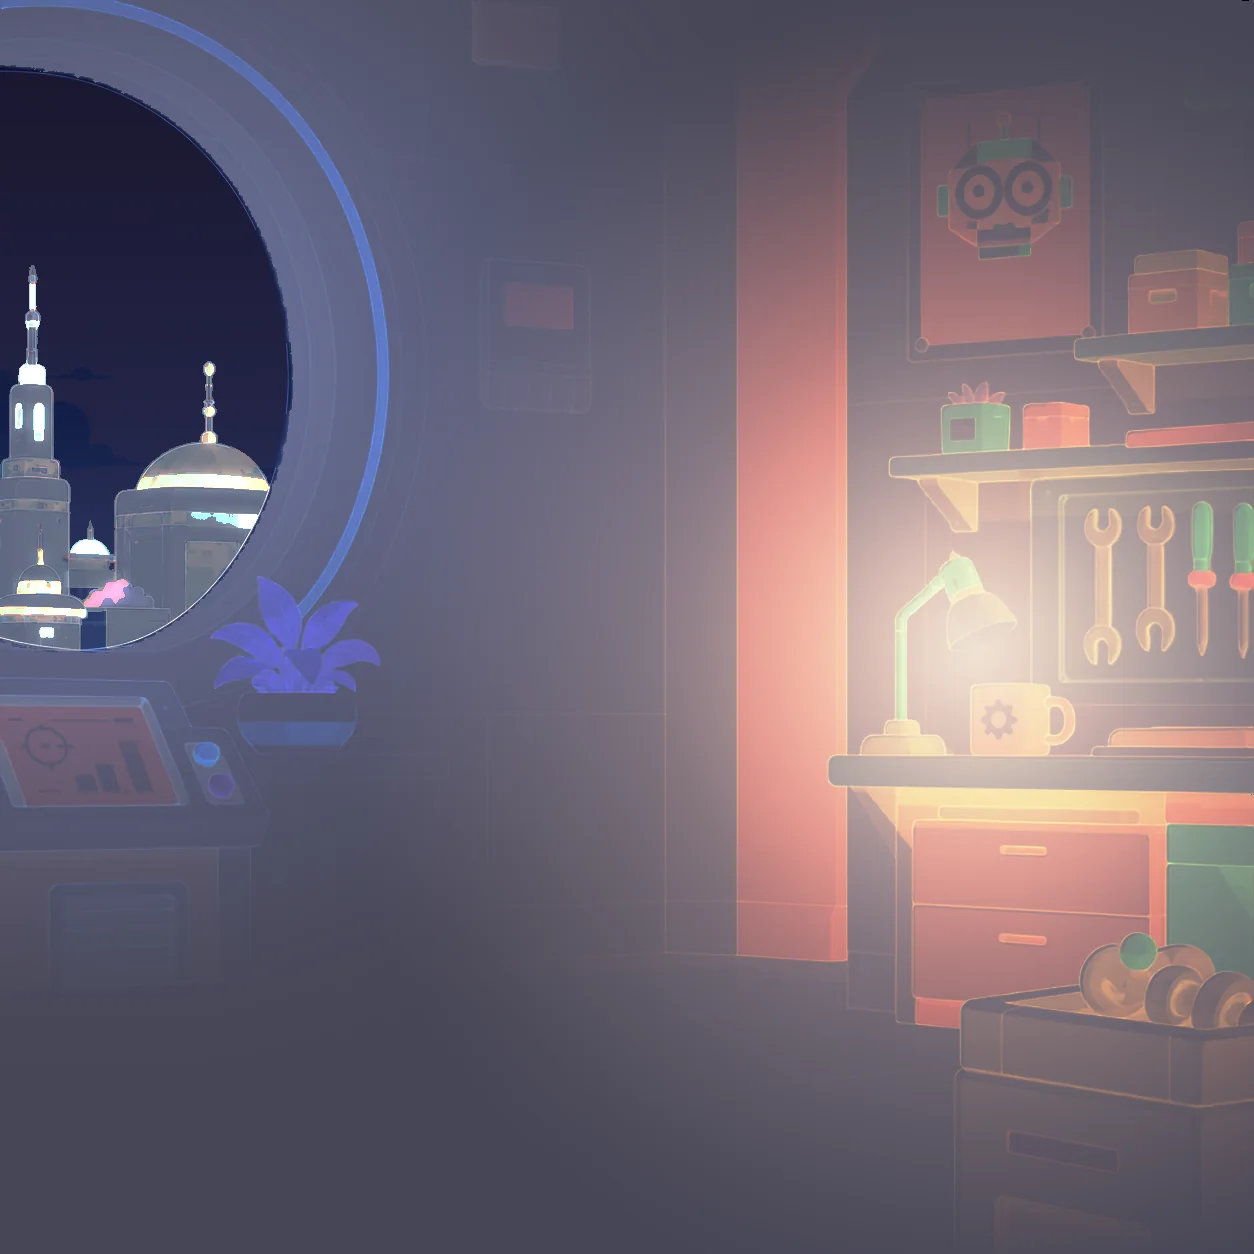
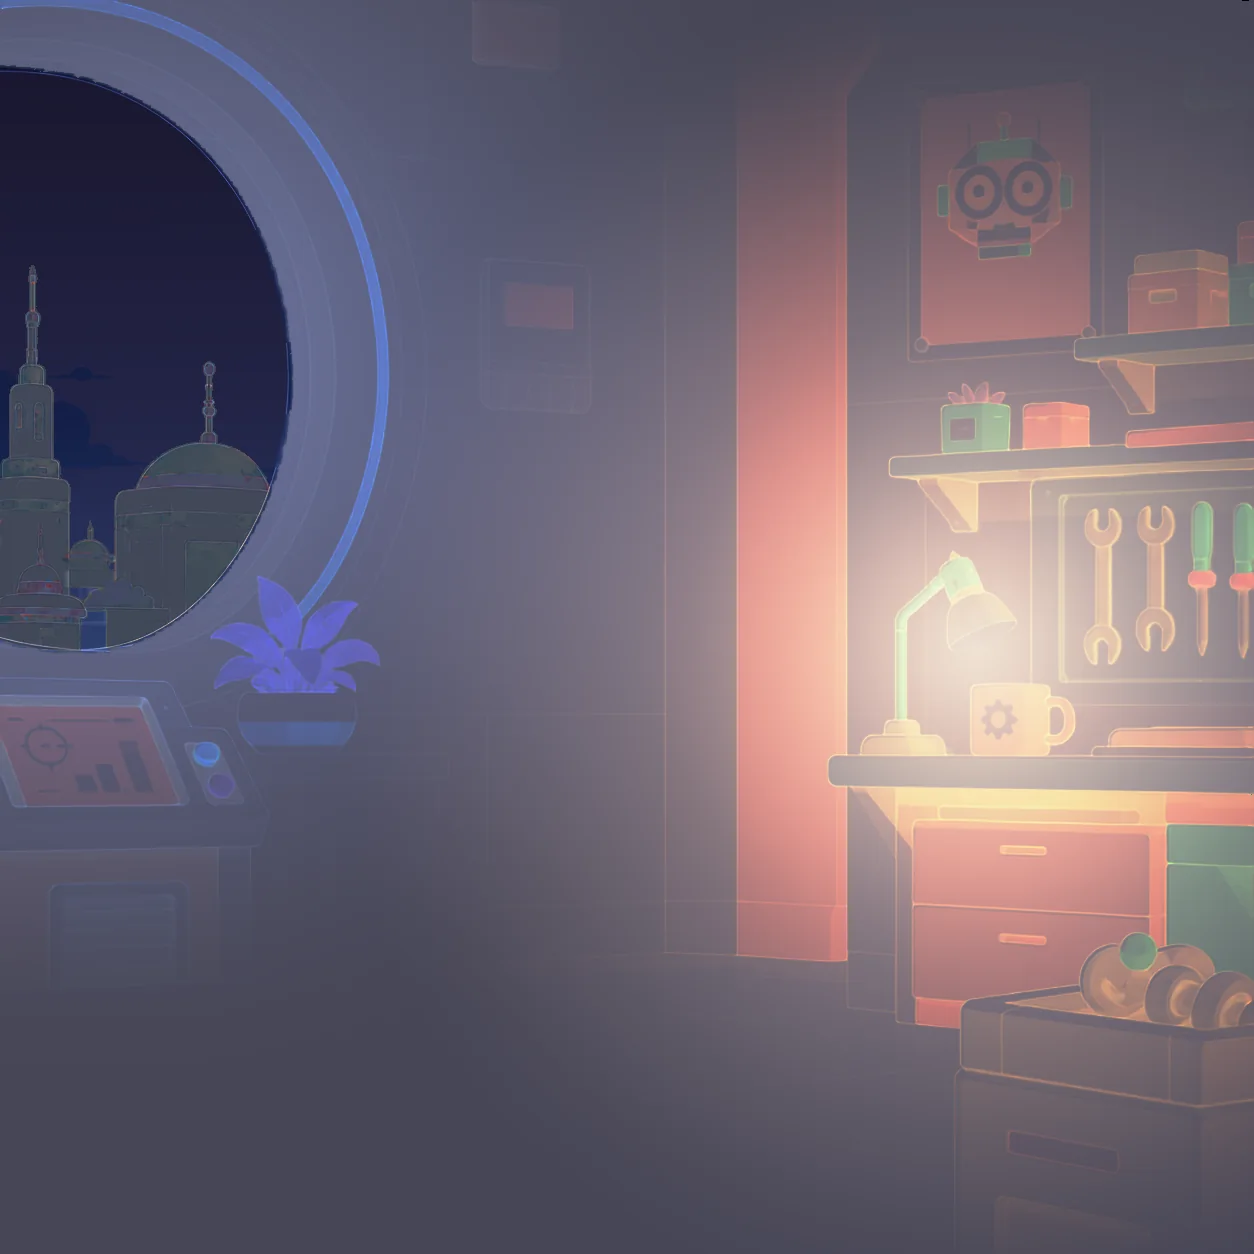
夜景改成「暗的建築 + 窗內有光」,加上星星、月亮與月光;右下角的切換點收起來
一、建築不再是霓虹
整片點成螢光色很醜,而且那是把顏色蓋上去不是打光。neon 全部關掉(amt 0、bloom 0),
建築壓成剪影(明度 14–72,天空是 14–47,塔身還浮得起來)。窗格的光改成獨立的三張
貼圖(1.4–1.8KB),用窗格自己的像素在網頁端 screen 疊亮,而且三組各閃各的 ——
整座城市一起明滅會像在呼吸,不像有人在裡面。偶爾有一格會熄一下又亮起來。
夜晚的 screen 分級圖因此從 6KB 掉到 108 bytes。

二、星星、月亮、月光
夜空有 34 顆星在閃,月亮從天際線後面慢慢升上來(一輪 260 秒),升得越高灑進房間的
冷月光越多。這是全檔唯一「原稿裡沒有、自己畫」的東西 —— 原稿只畫了白天,夜空是空的。

踩到一個坑值得記:一開始把它們畫在幾何層,結果完全看不見 —— 幾何層在天色分級之下,
白色的月亮會被夜晚的 multiply 壓成夜空色(× 0.14)。搬到發光層(screen、在分級之上)
才對。兩者都套同一個天空遮罩,所以窗框與每一棟建築都會確實擋住。

星星的半徑是換算回卡片尺寸訂的:1254 縮到約 392px,半徑 1.5 的星在卡片上只有 0.5px,
等於看不見;現在是 3.4–6.2。位置用固定的亂數種子生,每次重新整理都一樣。

三、右下角的四顆切換點收起來
卡片只演第一幕(Allen 在他的工作間)。其他三幕的程式還在(?allenact=2..4 可以叫出來
驗收),只是不給入口 —— 團隊卡上多一組控制項會把注意力從角色身上帶走。

驗收:7 個頁面/視窗組合 overflowX = 0、零錯誤、零失敗請求;四個時段都看過。

Changed region(s): [[0.0, 0.2177, 0.2177, 0.5287]]

diff --git a/allen-room.js b/allen-room.js
@@ -34,7 +34,7 @@
 // 不依賴它。
 
 import { FrameStep } from './puppet-kit.js';
-import { PART_BOX, SKY_MASK, GRADE_TIMES, GRADE_OFF } from './allen-room-parts.js';
+import { PART_BOX, SKY_MASK, GRADE_TIMES, GRADE_OFF, CITY_LIGHTS } from './allen-room-parts.js';
 import { GRADE_BASE, TIMES, pickTime } from './allen-sky.js';
 
 const clamp = (v, a, b) => (v < a ? a : v > b ? b : v);
@@ -97,6 +97,22 @@ const CLOUDS = [
 /** 唯一「畫在會動的層前面」的不動層:右上那排層架蓋到海報一角。海報會抖,所以它
  *  不能烤進底板 —— 底板在會動的層後面,層架會被海報蓋掉。 */
 const FRONT = 'front_shelf';
+
+/** 夜裡窗外城市的窗格會亮起來。**不是霓虹** —— 建築在分級圖裡已經被壓成剪影,
+ *  這一層才是「窗戶裡面有光」:貼的是原稿畫的那面藍窗自己的像素,screen 疊上去。
+ *  分三組各閃各的,整座城市一起明滅會像在呼吸,不像有人在裡面。
+ *  只有夜裡出場(乘上夜晚的權重)。 */
+const CITY = CITY_LIGHTS.map((id, i) => ({ id, per: 6.5 + i * 2.9, ph: i * 2.1 }));
+
+/** 夜空:星星與月亮。
+ *
+ *  這是全檔唯一「原稿裡沒有、我們自己畫」的東西 —— 因為原稿只畫了白天,夜空是空的。
+ *  兩個都畫在天空的遮罩裡,所以窗框與每一棟建築都會確實擋住它們;而且只有夜裡出場
+ *  (乘上夜晚的權重),白天與黃昏完全不存在。
+ *
+ *  星星的位置用固定的亂數種子生,每次重新整理都一樣 —— 星空不該每次都換一張。 */
+const STARS = 34;
+const MOON = { r: 26, x: 196, lo: 585, hi: 96, per: 260 };   // 從天際線後面慢慢升上來
 
 /** 房間裡「只會亮、不會動」的地方:牆上小螢幕、頂上藍螢幕、地上機台的燈條。
  *  它們不用另外切成零件 —— 直接把底板自己的像素在這幾塊矩形上疊亮就好,
@@ -167,7 +183,8 @@ export function createRoom(root, {
   back.innerHTML = `
 <image href="${BASE}stage.webp" x="0" y="0" width="${CANVAS}" height="${CANVAS}"/>
 <defs><mask id="sky${uid}" maskUnits="userSpaceOnUse"><image href="${BASE}sky-mask.webp" x="${SKY_MASK[0]}" y="${SKY_MASK[1]}" width="${SKY_MASK[2]}" height="${SKY_MASK[3]}"/></mask></defs>
-<g mask="url(#sky${uid})">${CLOUDS.map((c) => {
+<g mask="url(#sky${uid})">
+${CLOUDS.map((c) => {
     const b = PART_BOX[c.id];
     if (!b) throw new Error('allen-room-parts.js 少了 ' + c.id);
     return `<g data-r="${c.id}">${img(`${BASE}parts/${c.id}.webp`, b)}</g>`;
@@ -215,8 +232,47 @@ ${LITP.map((p) => `<g data-r="l_${p.id}">${
       ? img(`${BASE}parts/${p.id}.webp`, p.box, ' data-lit="1" opacity="0"')
       : `<g mask="url(#sm${p.id}${uid})">${img(`${BASE}parts/${p.id}.webp`, p.box,
           ' data-lit="1" opacity="0"')}</g>`}</g>`).join('')}
+<!-- 夜空:星星與月亮。放在發光層不是幾何層 —— 幾何層在天色分級之下,
+     白色的月亮會被夜晚的 multiply 壓成夜空色(× 0.14),等於看不見。
+     這一層是 screen 而且在分級之上,月亮才會是月亮。
+     套的是同一個天空遮罩,所以窗框與每一棟建築都會確實擋住它們。 -->
+<g mask="url(#sky${uid})">
+<defs><radialGradient id="moon${uid}">
+  <stop offset="0" stop-color="#F4F7FF"/><stop offset="62%" stop-color="#DCE6FF"/>
+  <stop offset="100%" stop-color="#C3D2F5"/></radialGradient>
+<radialGradient id="halo${uid}">
+  <stop offset="0" stop-color="#CFE0FF" stop-opacity=".55"/>
+  <stop offset="45%" stop-color="#B9CEF5" stop-opacity=".18"/>
+  <stop offset="100%" stop-color="#A8C0EE" stop-opacity="0"/></radialGradient></defs>
+<g data-r="sky-night" opacity="0">
+  <g data-r="moon"><circle data-r="moon-halo" r="${MOON.r * 3.2}" fill="url(#halo${uid})"/>
+  <circle r="${MOON.r}" fill="url(#moon${uid})"/></g>
+  <g data-r="stars">${(() => {
+    // 固定種子的亂數:星空每次重新整理都要一樣
+    let sd = 20260808;
+    const rnd = () => (sd = (sd * 1103515245 + 12345) & 0x7fffffff) / 0x7fffffff;
+    let out = '';
+    for (let i = 0; i < STARS; i++) {
+      const x = r1(SKY_MASK[0] + rnd() * SKY_MASK[2]);
+      const y = r1(SKY_MASK[1] + rnd() * SKY_MASK[3] * 0.72);
+      out += `<circle data-s="${i}" cx="${x}" cy="${y}" r="${r1(3.4 + rnd() * 2.8)}" fill="#EAF2FF"/>`;
+    }
+    return out;
+  })()}</g>
+</g>
+</g>
+${CITY.map((c) => `<g data-r="${c.id}" opacity="0">${img(`${BASE}parts/${c.id}.webp`, PART_BOX[c.id])}</g>`).join('')}
 ${GLOW.map((w) => `<g data-r="${w.id}" mask="url(#sm${w.id}${uid})" opacity="0">`
   + `<image href="${BASE}stage.webp" x="0" y="0" width="${CANVAS}" height="${CANVAS}"/></g>`).join('')}
+
+<!-- 月光從窗口灑進房間。和檯燈的暖光同一種做法(軟邊放射漸層),只是冷的,
+     而且只有夜裡出場;月亮升得越高,灑進來的越多。 -->
+<defs><radialGradient id="moonlit${uid}">
+  <stop offset="0" stop-color="#BBD2FF" stop-opacity=".5"/>
+  <stop offset="55%" stop-color="#9FBCF2" stop-opacity=".18"/>
+  <stop offset="100%" stop-color="#8FAEE8" stop-opacity="0"/>
+</radialGradient></defs>
+<ellipse data-r="moonlit" cx="150" cy="620" rx="430" ry="380" fill="url(#moonlit${uid})" opacity="0"/>
 
 <!-- 檯燈點亮的那一圈暖光。它是光不是物件,所以用軟邊放射漸層;矩形會留一條看得見的直邊。 -->
 <defs><radialGradient id="warm${uid}">
@@ -276,6 +332,13 @@ ${GLOW.map((w) => `<g data-r="${w.id}" mask="url(#sm${w.id}${uid})" opacity="0">
   const dim = q('dim');
   const warm = ql('warm');
   const glowEl = Object.fromEntries(GLOW.map((w) => [w.id, ql(w.id)]));
+  const cityEl = CITY.map((c) => ({ ...c, el: ql(c.id), blink: -1 }));
+  const skyNight = ql('sky-night');
+  const moonG = ql('moon');
+  const starEls = [...lit.querySelectorAll('[data-s]')];
+  const moonlit = ql('moonlit');
+  // 每顆星的閃法都不一樣,不然會像整片一起眨眼
+  const starPh = starEls.map((_, i) => ({ per: 2.1 + (i % 7) * 0.83, ph: (i * 2.399) % 6.283 }));
   // 每朵雲的行程由它自己的貼圖框算:從「整朵在窗戶左外」飄到「整朵出了窗戶右緣」。
   // 寫死一個範圍的話,靠右邊的那朵大半輩子都在畫面外。
   const cloudEl = CLOUDS.map((c) => {
@@ -482,6 +545,38 @@ ${GLOW.map((w) => `<g data-r="${w.id}" mask="url(#sm${w.id}${uid})" opacity="0">
         o = (Math.floor(ledT * 11) % 2 ? 0.06 : 0.62) * Math.exp(-ledT * 1.2);
       }
       glowEl[w.id].setAttribute('opacity', r2(clamp(o, 0, 0.7)));
+    }
+
+    // 夜空:星星閃、月亮慢慢升。月亮升得越高,灑進房間的月光越多。
+    skyNight.setAttribute('opacity', r2(tw.night));
+    if (tw.night > 0.01) {
+      const u = (T % MOON.per) / MOON.per;                 // 一輪 260 秒
+      const my = MOON.lo + (MOON.hi - MOON.lo) * u;
+      moonG.setAttribute('transform', `translate(${MOON.x},${r1(my)})`);
+      for (let i = 0; i < starEls.length; i++) {
+        const p = starPh[i];
+        starEls[i].setAttribute('opacity',
+          r2(0.35 + 0.45 * Math.sin(T * (6.283 / p.per) + p.ph)));
+      }
+      // 月亮還在天際線後面的時候幾乎沒有月光,升上來才慢慢灑進房間
+      const h = clamp((MOON.lo - my) / (MOON.lo - MOON.hi), 0, 1);
+      moonlit.setAttribute('opacity', r2(tw.night * (0.18 + 0.62 * h)));
+    } else {
+      moonlit.setAttribute('opacity', '0');
+    }
+
+    // 窗外城市的窗:各組各自慢慢明滅,偶爾有一格「熄一下又亮起來」——
+    // 那是裡面有人的感覺。白天與黃昏完全不出場。
+    for (const c of cityEl) {
+      let o = 0.52 + 0.26 * Math.sin(T * (6.283 / c.per) + c.ph);
+      if (c.blink >= 0) {
+        c.blink += dt;
+        if (c.blink > 1.1) c.blink = -1;
+        else o *= (Math.floor(c.blink * 7) % 2 ? 0.22 : 1);
+      } else if (rand() < dt * 0.09) {
+        c.blink = 0;
+      }
+      c.el.setAttribute('opacity', r2(clamp(o * tw.night, 0, 1)));
     }
 
     // 檯燈:亮著的時候燈罩自己發亮、桌面有一圈暖光,兩者一起呼吸。

diff --git a/allen-avatar.js b/allen-avatar.js
@@ -74,6 +74,10 @@ export function mountAllenAvatar() {
   let cur = -1, act = null, dead = false;
   const fallbackHtml = stage.innerHTML;   // 靜態機器人:載入失敗時還原
 
+  // 右下角的四顆切換點目前不出場 —— 卡片只演第一幕(Allen 在他的工作間)。
+  // 其他三幕的程式還在(?allenact=2..4 可以叫出來驗收),只是不給入口:
+  // 團隊卡上多一組控制項會把注意力從角色身上帶走。
+  const SHOW_DOTS = false;
   // 切換點(右下四顆):目前幕亮橘。第一幕的背景是亮的,所以整組點加一層深色底,
   // 不然白邊的空心點在白牆上會直接消失。
   const dots = document.createElement('div');
@@ -112,13 +116,18 @@ export function mountAllenAvatar() {
     cur = i;
     paintDots();
     stage.innerHTML = '';
-    stage.appendChild(dots);
+    if (SHOW_DOTS) stage.appendChild(dots);
     import(ACTS[i])
       .then((m) => {
         if (dead || cur !== i) return;
         act = m.createAct(stage, api);
       })
-      .catch(() => { if (!dead && cur === i) { stage.innerHTML = fallbackHtml; stage.appendChild(dots); } });
+      .catch(() => {
+        if (!dead && cur === i) {
+          stage.innerHTML = fallbackHtml;
+          if (SHOW_DOTS) stage.appendChild(dots);
+        }
+      });
   }
   // 開場固定第一幕(Allen 本人);?allenact=1..4 供驗收指定
   let first = 0;

diff --git a/allen-room-parts.js b/allen-room-parts.js
@@ -17,11 +17,17 @@ export const PART_BOX = {
   'cloud_0': [-125, 137, 290, 98],
   'cloud_1': [121, 229, 297, 120],
   'cloud_2': [222, 412, 124, 59],
+  'city_light_0': [17, 359, 243, 171],
+  'city_light_1': [14, 282, 97, 274],
+  'city_light_2': [24, 319, 31, 320],
   'front_shelf': [1070, 216, 184, 203],
 };
 
 // 雲的可見範圍 = 天空那一層減掉城市。窗框與每一棟建築都會確實擋住雲。
 export const SKY_MASK = [0, 63, 295, 592];
+
+// 夜裡會亮起來的城市窗格。分三組各閃各的 —— 整座一起明滅會像在呼吸。
+export const CITY_LIGHTS = ['city_light_0', 'city_light_1', 'city_light_2'];
 
 // 有分級圖的時段。白天就是原圖,所以它不會有 m/s 兩張。
 export const GRADE_TIMES = ['day', 'dusk', 'night'];

diff --git a/tools/gen-allen-room-assets.py b/tools/gen-allen-room-assets.py
@@ -143,11 +143,14 @@ TIMES = {
     'night': {
         'sky': [(40, (11, 18, 46)), (240, (14, 24, 58)), (420, (20, 32, 72)),
                 (560, (30, 46, 92)), (680, (40, 58, 104))],
-        # 明度區間 26–104,天空底部是 47,所以塔身浮得起來,內部還有 40 階的明暗差
-        'city_lo': 26, 'city_hi': 104, 'city_gamma': 1.15,
-        'city_cast': (188, 206, 255), 'city_sat': 0.42,
-        'neon_blue': (96, 214, 238), 'neon_blue_amt': 0.72,
-        'neon_red': (255, 132, 74), 'neon_red_amt': 0.70, 'bloom': 0.22,
+        # 夜裡的城市是「暗的建築 + 窗內有光」,不是霓虹。整片點成螢光色很醜,
+        # 而且那是把顏色蓋上去,不是打光。所以 neon 全部關掉(amt 0、bloom 0),
+        # 建築壓成剪影(明度 14–72,天空是 14–47,塔身還浮得起來),
+        # 窗格的光改成獨立的一張貼圖在網頁端疊亮 + 閃動,見 city_light_*。
+        'city_lo': 14, 'city_hi': 72, 'city_gamma': 1.25,
+        'city_cast': (188, 206, 255), 'city_sat': 0.30,
+        'neon_blue': (96, 214, 238), 'neon_blue_amt': 0.0,
+        'neon_red': (255, 132, 74), 'neon_red_amt': 0.0, 'bloom': 0.0,
         'tint': (0.415, 0.41, 0.50), 'amb': 0.68,
         'spill': (12, 22, 48), 'lamp': 1.45, 'room_off': True,
         # 夜裡檯燈是主光,它打到牆面再散回來的那一份要算進去,不然房間又黑又冷
@@ -557,6 +560,52 @@ def main():
               % (cid, im.width, im.height, boxes[cid][0], boxes[cid][1], sz, m.sum(), full.sum()))
     print('  元件共 %d bytes' % total)
 
+    # ---- 城市窗格的光:夜裡在網頁端疊亮並閃動 ----
+    # 分三組是為了讓它們各閃各的 —— 整座城市一起明滅會像在呼吸,不像有人在裡面。
+    # 貼圖用的是窗格自己的像素(原稿畫的那面藍窗),screen 疊上去就是「窗內有光」。
+    comp0 = place(layers, list(range(N_LAYERS)))
+    src0 = np.asarray(comp0.convert('RGB')).astype(float)
+    city0 = np.zeros((CANVAS, CANVAS), bool)
+    for i in CITY_L:
+        city0 |= alpha_of(layers, [i])
+    r0, b0 = src0[:, :, 0], src0[:, :, 2]
+    win = solid_blobs(city0 & (b0 - r0 > 60) & (b0 > 118), max_px=520)
+    groups = [np.zeros((CANVAS, CANVAS), bool) for _ in range(3)]
+    lab = np.zeros((CANVAS, CANVAS), np.int32)
+    nid = 0
+    for y0, x0 in zip(*np.nonzero(win)):
+        if lab[y0, x0]:
+            continue
+        nid += 1
+        q = deque([(y0, x0)])
+        lab[y0, x0] = nid
+        cells = []
+        while q:
+            y, x = q.popleft()
+            cells.append((y, x))
+            for dy, dx in ((1, 0), (-1, 0), (0, 1), (0, -1)):
+                ny, nx = y + dy, x + dx
+                if 0 <= ny < CANVAS and 0 <= nx < CANVAS and win[ny, nx] and not lab[ny, nx]:
+                    lab[ny, nx] = nid
+                    q.append((ny, nx))
+        gi = nid % 3
+        for y, x in cells:
+            groups[gi][y, x] = True
+    light_ids = []
+    for gi, gm in enumerate(groups):
+        if not gm.any():
+            continue
+        rgba = np.zeros((CANVAS, CANVAS, 4), 'uint8')
+        rgba[:, :, :3] = src0.astype('uint8')
+        rgba[:, :, 3] = (dilate(gm, 1) * 255).astype('uint8')
+        cid = 'city_light_%d' % gi
+        b, sz = crop_save(Image.fromarray(rgba, 'RGBA'), os.path.join(OUT, 'parts', cid + '.webp'))
+        boxes[cid] = b
+        total += sz
+        light_ids.append(cid)
+        print('  %-16s %3dx%-3d @(%4d,%4d) %6d bytes  %d 個窗格'
+              % (cid, b[2], b[3], b[0], b[1], sz, int(gm.sum())))
+
     # ---- 雲的可見範圍 = 天空那一層減掉城市 ----
     # 硬邊:窗框與每一棟建築都要確實擋住雲。上一版的窗口是擬合出來的圓,差 1–3px,
     # 所以得靠柔邊去藏;現在開口就是天空那一層的 alpha,精確到像素,硬邊才是對的。
@@ -612,12 +661,14 @@ def main():
              '// 每個元件的貼圖框 [x, y, w, h](1254×1254 座標)。雲的 x 可能是負的:',
              '// 補全出來的部分落在畫布外,雲飄進來才看得到。',
              'export const PART_BOX = {']
-    for k in list(MOVERS) + cloud_ids + ['front_shelf']:
+    for k in list(MOVERS) + cloud_ids + light_ids + ['front_shelf']:
         lines.append("  '%s': [%d, %d, %d, %d]," % (k, *boxes[k]))
     lines += ['};', '',
               '// 雲的可見範圍 = 天空那一層減掉城市。窗框與每一棟建築都會確實擋住雲。',
               'export const SKY_MASK = [%d, %d, %d, %d];'
               % (mb[0], mb[1], mb[2] - mb[0], mb[3] - mb[1]), '',
+              '// 夜裡會亮起來的城市窗格。分三組各閃各的 —— 整座一起明滅會像在呼吸。',
+              "export const CITY_LIGHTS = [%s];" % ', '.join("'%s'" % t for t in light_ids), '',
               '// 有分級圖的時段。白天就是原圖,所以它不會有 m/s 兩張。',
               "export const GRADE_TIMES = [%s];" % ', '.join("'%s'" % t for t in GRADE_TIMES), '',
               '// 有「關燈分級圖」的時段 —— 只有這幾個時段關燈會影響整個房間。',

diff --git a/README.md b/README.md
@@ -45,6 +45,14 @@
   窗外有三朵雲會飄,而且是**完整的一朵** —— 原稿裡四朵都被畫布左緣或窗框的弧切過,
   產生器用「把靠近切口那 70% 鏡射過去再閉合」補全(雲是純白的,所以補的只有輪廓)。
   雲的可見範圍 = 天空那一層減掉城市,**硬邊**:窗框與每一棟建築都會確實擋住它。
+  **夜裡的窗外**:建築是暗的剪影,不是霓虹 —— 整片點成螢光色很醜,而且那是把顏色蓋
+  上去不是打光。改成「窗戶裡面有光」:窗格自己的像素切成三組貼圖,在網頁端 screen 疊亮
+  並各閃各的(整座城市一起明滅會像在呼吸,不像有人在裡面)。
+  夜空另外有**星星**與**慢慢升起的月亮**,月亮升得越高,灑進房間的冷月光越多。
+  這是全檔唯一「原稿裡沒有、自己畫」的東西 —— 原稿只畫了白天,夜空是空的。
+  兩者都畫在**發光層**不是幾何層:幾何層在天色分級之下,白色的月亮會被夜晚的 multiply
+  壓成夜空色(× 0.14)等於看不見。也都套同一個天空遮罩,所以窗框與每一棟建築都會擋住。
+
   另外有三個「只會亮不會動」的地方(牆上小螢幕、頂上藍螢幕、地上機台燈條):不另外切圖,
   直接把底板自己的像素在那塊用 screen 混合疊亮,零新增檔案。光的範圍用軟邊的放射遮罩,
   不用硬邊矩形 —— 矩形在白天疊在同樣亮的底板上剛好消失,天色一暗就整個現形。

diff --git a/assets/allen/README.md b/assets/allen/README.md
@@ -5,7 +5,8 @@
 | `workshop.webp` | `assets/svg/robot_removed_web_background.svg` 裡內嵌的 PNG | 第一幕的背景 |
 | `turnaround.webp` | `assets/svg/robot_turnaround_8_views_exact.svg` 裡內嵌的 PNG | 轉身那一段的六格精靈圖 |
 | `room/stage.webp` | 原圖 + 重畫的空房間 | 房間底板(挖掉會動的元件與雲) |
-| `room/parts/*.webp` | 差異遮罩切出來 | 12 個會動的元件 + 3 朵完整的雲 |
+| `room/parts/*.webp` | 手工拆好的圖層 | 11 個會動的元件 + 3 朵完整的雲 + 前景層架 |
+| `room/parts/city_light_*.webp` | 窗格自己的像素 | 夜裡城市的窗會亮起來,分三組各閃各的 |
 | `room/sky-mask.webp` | 原圖看得到天空的地方 | 雲的可見範圍遮罩(窗緣是軟的、建築輪廓是硬的) |
 | `room/grade/<時段>-m.webp` | 打光運算 | 天色:multiply 那一層(壓暗) |
 | `room/grade/<時段>-s.webp` | 同上 | 天色:screen 那一層(提亮,霓虹在這裡) |
